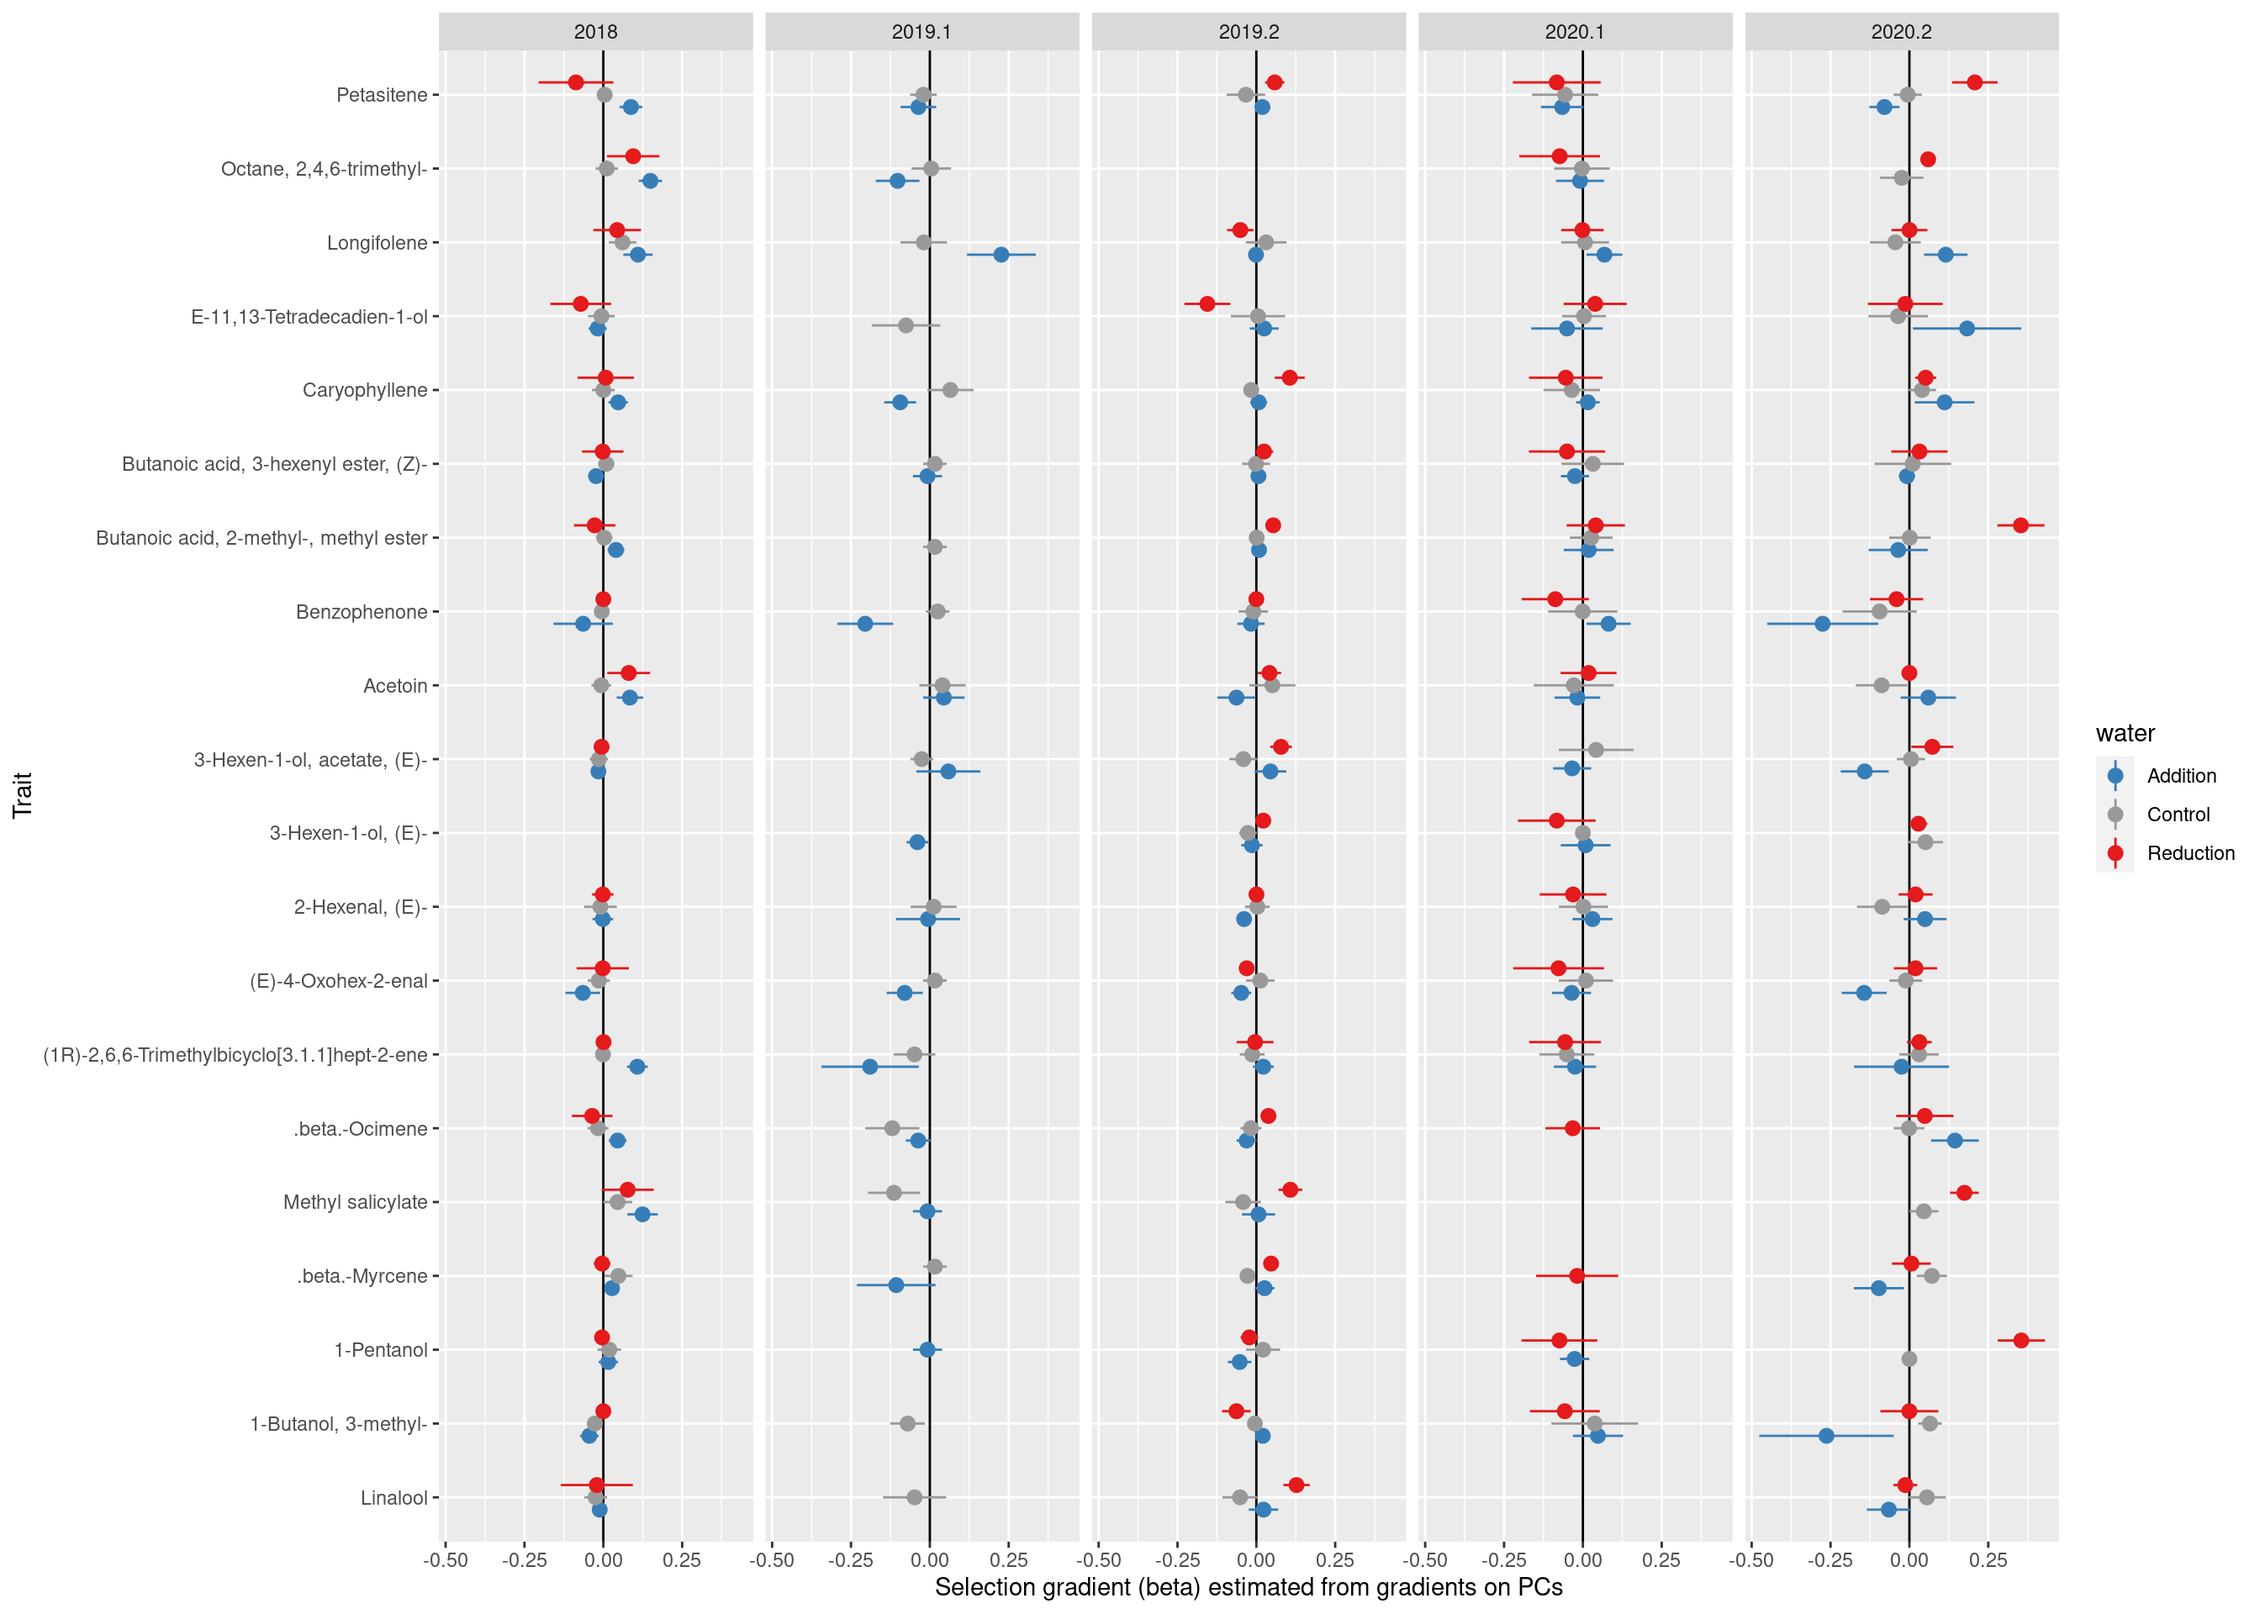
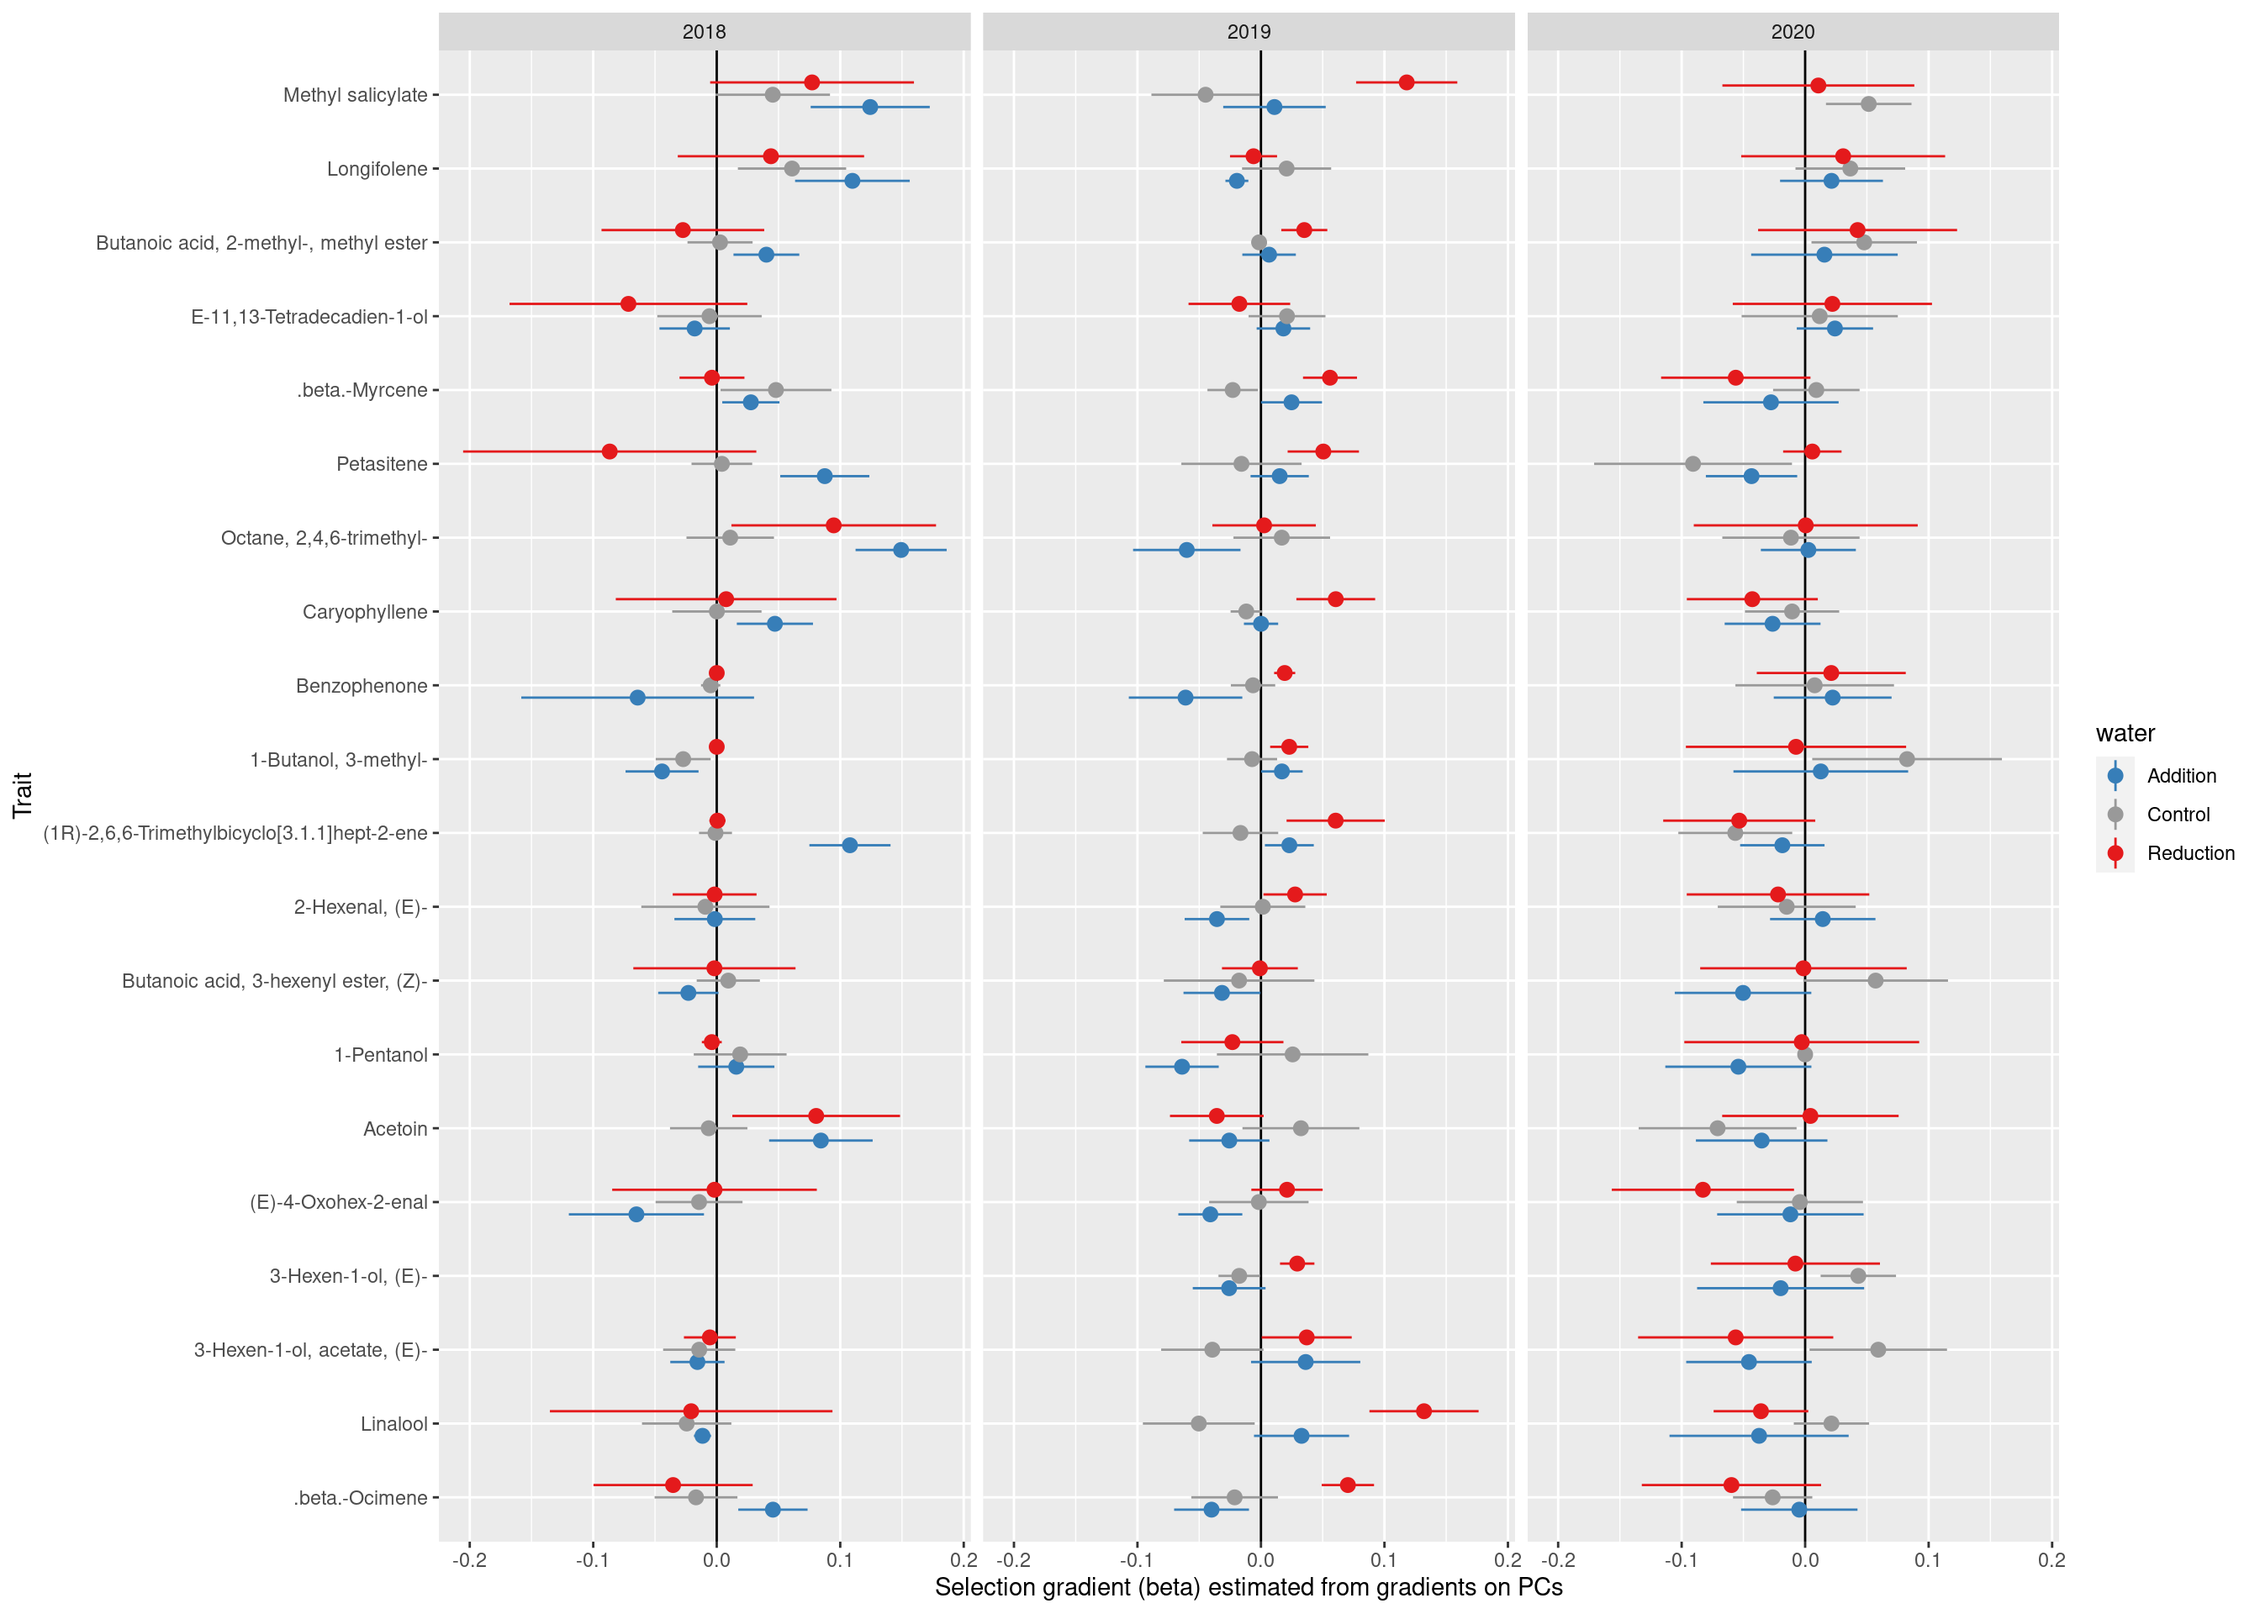
Adaptive plasticity chart

diff --git a/maxfield_volatiles2020.html b/maxfield_volatiles2020.html
@@ -11,7 +11,7 @@
 
 <meta name="author" content="John Powers" />
 
-<meta name="date" content="2022-02-10" />
+<meta name="date" content="2022-02-11" />
 
 <title>Maxfield Meadow Ipomopsis Volatiles</title>
 
@@ -263,7 +263,7 @@ div.tocify {
 
 <h1 class="title toc-ignore">Maxfield Meadow Ipomopsis Volatiles</h1>
 <h4 class="author"><a href="http://sites.uci.edu/powers/">John Powers</a></h4>
-<h4 class="date">2022-02-10</h4>
+<h4 class="date">2022-02-11</h4>
 
 </div>
 
@@ -1130,9 +1130,9 @@ Signif. codes:  0 &#39;***&#39; 0.001 &#39;**&#39; 0.01 &#39;*&#39; 0.05 &#39;.&
              SE = sqrt(E ^ 2 %*% slopes$SE ^ 2)) %&gt;% rownames_to_column(&quot;trait&quot;)
 }
 
-selection_pca &lt;- function(year.cluster, water) {
+selection_pca &lt;- function(year, water) {
 vols.std &lt;- bind_cols(volsmeta, vols.good.top) %&gt;% 
-  filter(year.cluster == .env$year.cluster, water %in% .env$water) %&gt;% 
+  filter(year == .env$year, water %in% .env$water) %&gt;% 
   left_join(mnps.plantyr %&gt;% select(year, plotid, plant, seeds_est)) %&gt;% 
   select(all_of(ipogood.top),seeds_est, any_of(names(treatments))) %&gt;% 
   mutate(across(all_of(ipogood.top), ~ (.x-mean(.x, na.rm=T))/sd(.x, na.rm=T))) %&gt;% 
@@ -1154,25 +1154,47 @@ vols.PCA.slopes &lt;- tidy(vols.PCA.regression) %&gt;% filter(term != &quot;(Int
 calculate_beta(vols.PCA.E, vols.PCA.slopes)
 }
 
-plot_beta &lt;- function(betas, colorby=&quot;year.cluster&quot;) {
+plot_beta &lt;- function(betas, colorby=&quot;year&quot;) {
   betas %&gt;% mutate(trait = fct_reorder(trait, B)) %&gt;% 
     ggplot(aes(y=trait, x = B, xmin=B-SE, xmax=B+SE)) + 
     geom_vline(xintercept=0)+ geom_pointrange(aes_string(color=colorby), position=position_dodge(width=0.5)) + 
     labs(x = &quot;Selection gradient (beta) estimated from gradients on PCs&quot;, y = &quot;Trait&quot;)
 }
 
-vols.beta.yr &lt;- map_dfr(set_names(unique(volsmeta$year.cluster)), 
-                     ~ selection_pca(.x, names(water_pal)), .id=&quot;year.cluster&quot;)
+vols.beta.yr &lt;- map_dfr(set_names(unique(volsmeta$year)), 
+                     ~ selection_pca(.x, names(water_pal)), .id=&quot;year&quot;)
 plot_beta(vols.beta.yr)</code></pre>
 <p><img src="images_volatiles2020/gradients-1.png" width="1344" /></p>
-<pre class="r"><code>vols.beta.water &lt;- expand_grid(year.cluster=unique(volsmeta$year.cluster), water=names(water_pal))  %&gt;% 
+<pre class="r"><code>vols.beta.water &lt;- expand_grid(year=unique(volsmeta$year), water=names(water_pal))  %&gt;% 
   mutate(betas = pmap(., selection_pca)) %&gt;% unnest(betas)
-plot_beta(filter(vols.beta.water, year.cluster==&quot;2018&quot;), colorby=&quot;water&quot;) + 
+plot_beta(filter(vols.beta.water, year==&quot;2018&quot;), colorby=&quot;water&quot;) + 
   scale_color_manual(values=water_pal) + ggtitle(&quot;2018&quot;)</code></pre>
 <p><img src="images_volatiles2020/gradients-2.png" width="1344" /></p>
 <pre class="r"><code>plot_beta(filter(vols.beta.water), colorby=&quot;water&quot;) + 
-  scale_color_manual(values=water_pal) + facet_wrap(vars(year.cluster), nrow=1)</code></pre>
+  scale_color_manual(values=water_pal) + facet_wrap(vars(year), nrow=1)</code></pre>
 <p><img src="images_volatiles2020/gradients-3.png" width="1344" /></p>
+</div>
+<div id="adaptive-plasticity" class="section level2">
+<h2>Adaptive plasticity</h2>
+<pre class="r"><code>plasticity &lt;- volsmeta.good.top %&gt;% group_by(year, water, name) %&gt;% summarize(value=mean(value)) %&gt;% 
+  pivot_wider(names_from=water, values_from=value) %&gt;% left_join(ipochems) %&gt;% 
+  mutate(A_C = (Addition-Control)/Control, R_C = (Reduction-Control)/Control, .keep=&quot;unused&quot;)
+
+
+plasticity %&gt;% left_join(vols.beta.water %&gt;% rename(name=trait) %&gt;% filter(water==&quot;Addition&quot;)) %&gt;% 
+  ggplot(aes(x=A_C, y=B, color=standard)) + facet_wrap(vars(year), ncol=1)+
+  geom_vline(xintercept=0)+geom_hline(yintercept=0) + geom_text(aes(label=name)) + 
+  scale_color_discrete(&quot;Class&quot;, labels=c(&quot;monoterpene&quot;,&quot;sesquiterpene&quot;,&quot;aliphatic&quot;,&quot;linalool&quot;,&quot;benzenoid&quot;))+
+  scale_x_continuous(labels=scales::percent, limits=c(NA,2)) + theme_bw()  + theme(legend.position = &quot;top&quot;) +
+  labs(x=&quot;Emissions change in Addition vs. Control precipitation&quot;, y=&quot;Selection gradient (beta) under precipitation addition&quot;)</code></pre>
+<p><img src="images_volatiles2020/adaptive-1.png" width="960" /></p>
+<pre class="r"><code>plasticity %&gt;% left_join(vols.beta.water %&gt;% rename(name=trait) %&gt;% filter(water==&quot;Reduction&quot;)) %&gt;% 
+  ggplot(aes(x=R_C, y=B, color=standard)) + facet_wrap(vars(year), ncol=1)+
+  geom_vline(xintercept=0)+geom_hline(yintercept=0) + geom_text(aes(label=name)) + 
+  scale_color_discrete(&quot;Class&quot;, labels=c(&quot;monoterpene&quot;,&quot;sesquiterpene&quot;,&quot;aliphatic&quot;,&quot;linalool&quot;,&quot;benzenoid&quot;))+
+  scale_x_continuous(labels=scales::percent, limits=c(NA,4)) + theme_bw()  + theme(legend.position = &quot;top&quot;) +
+  labs(x=&quot;Emissions change in Reduction vs. Control precipitation&quot;, y=&quot;Selection gradient (beta) under precipitation reduction&quot;)</code></pre>
+<p><img src="images_volatiles2020/adaptive-2.png" width="960" /></p>
 </div>
 </div>
 <div id="volatiles-vs.-floral-traits" class="section level1">
